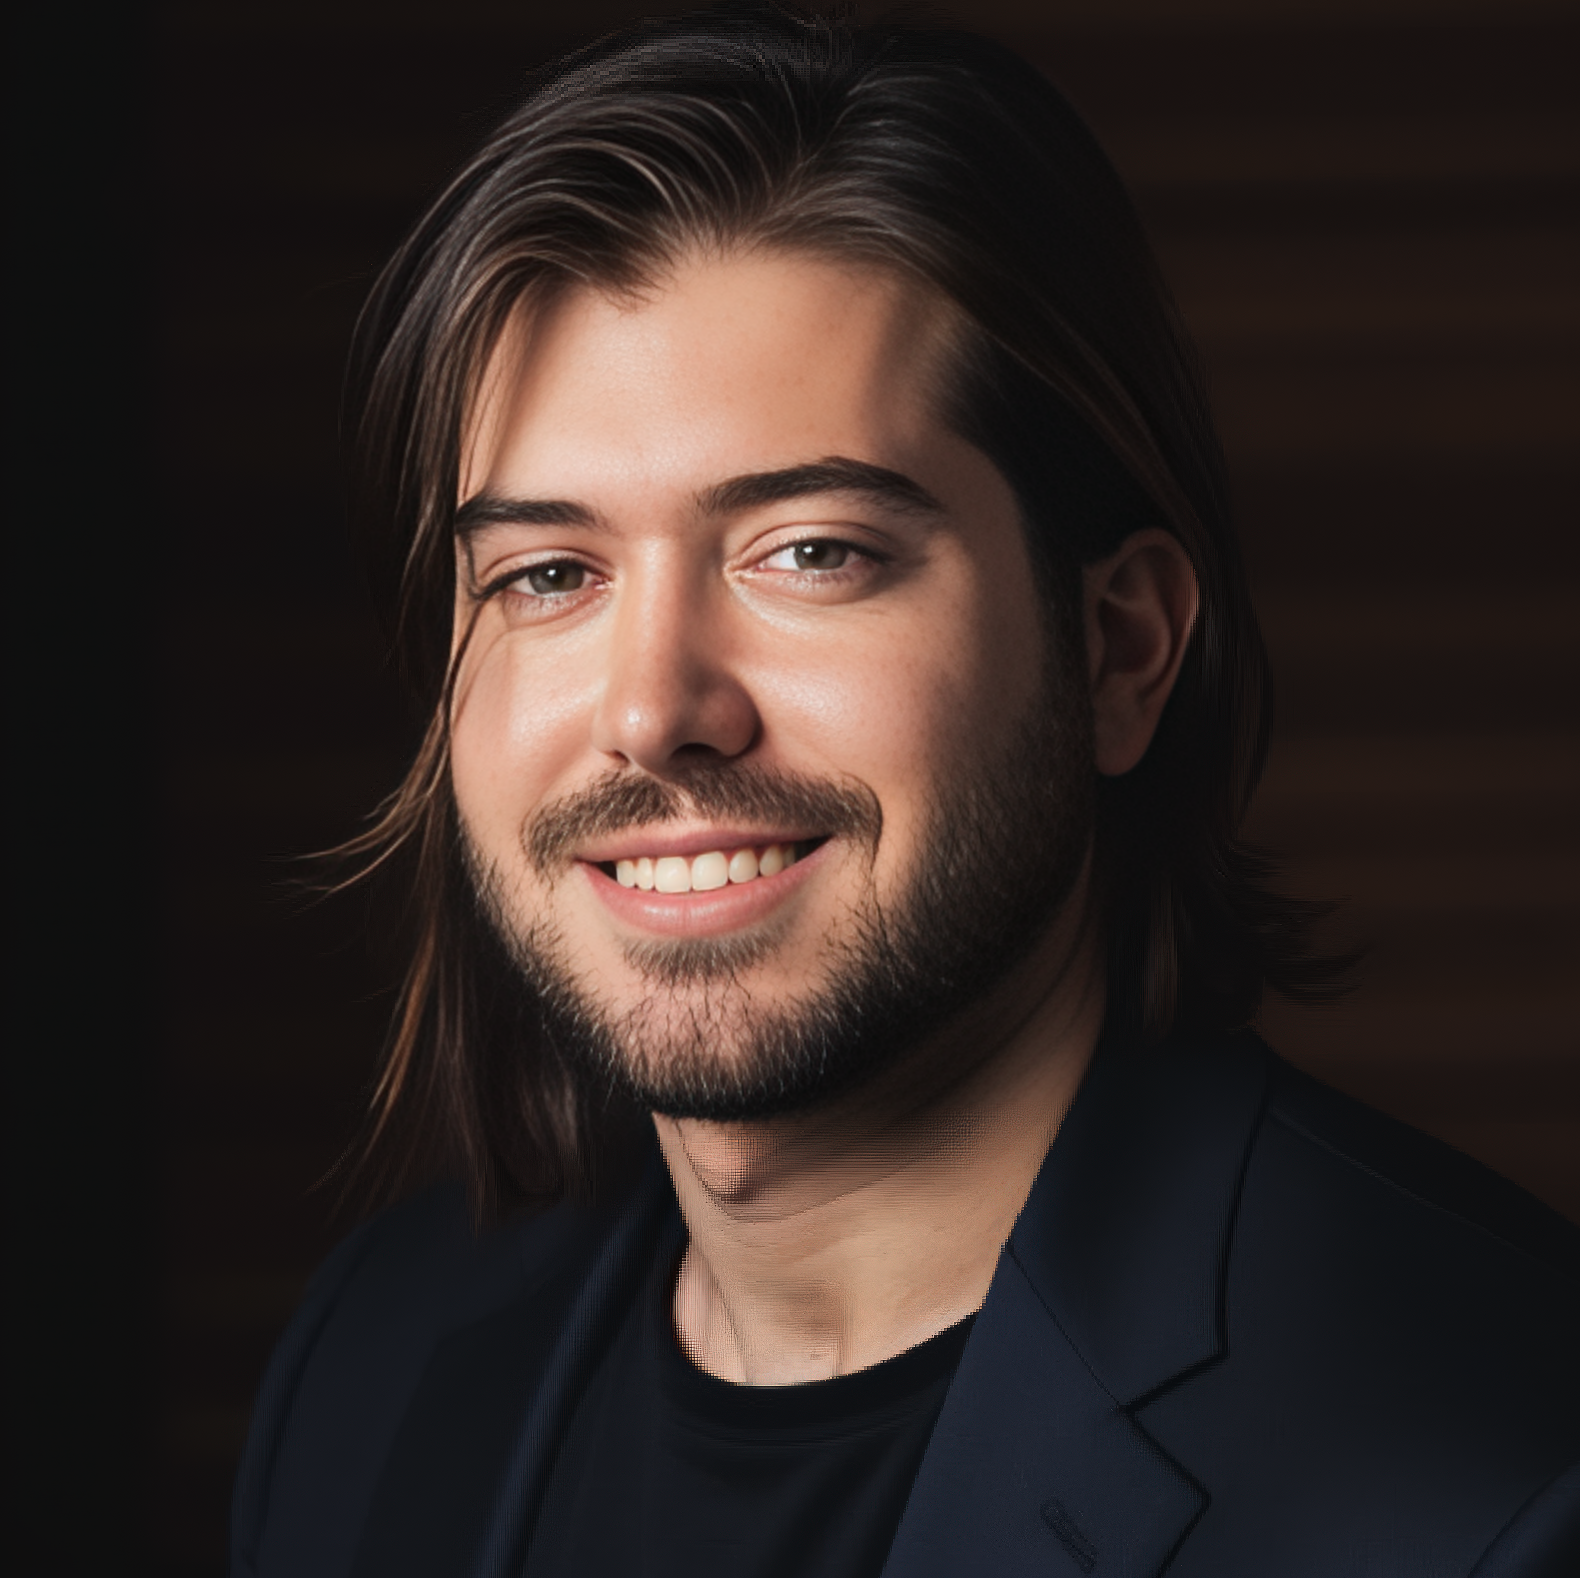
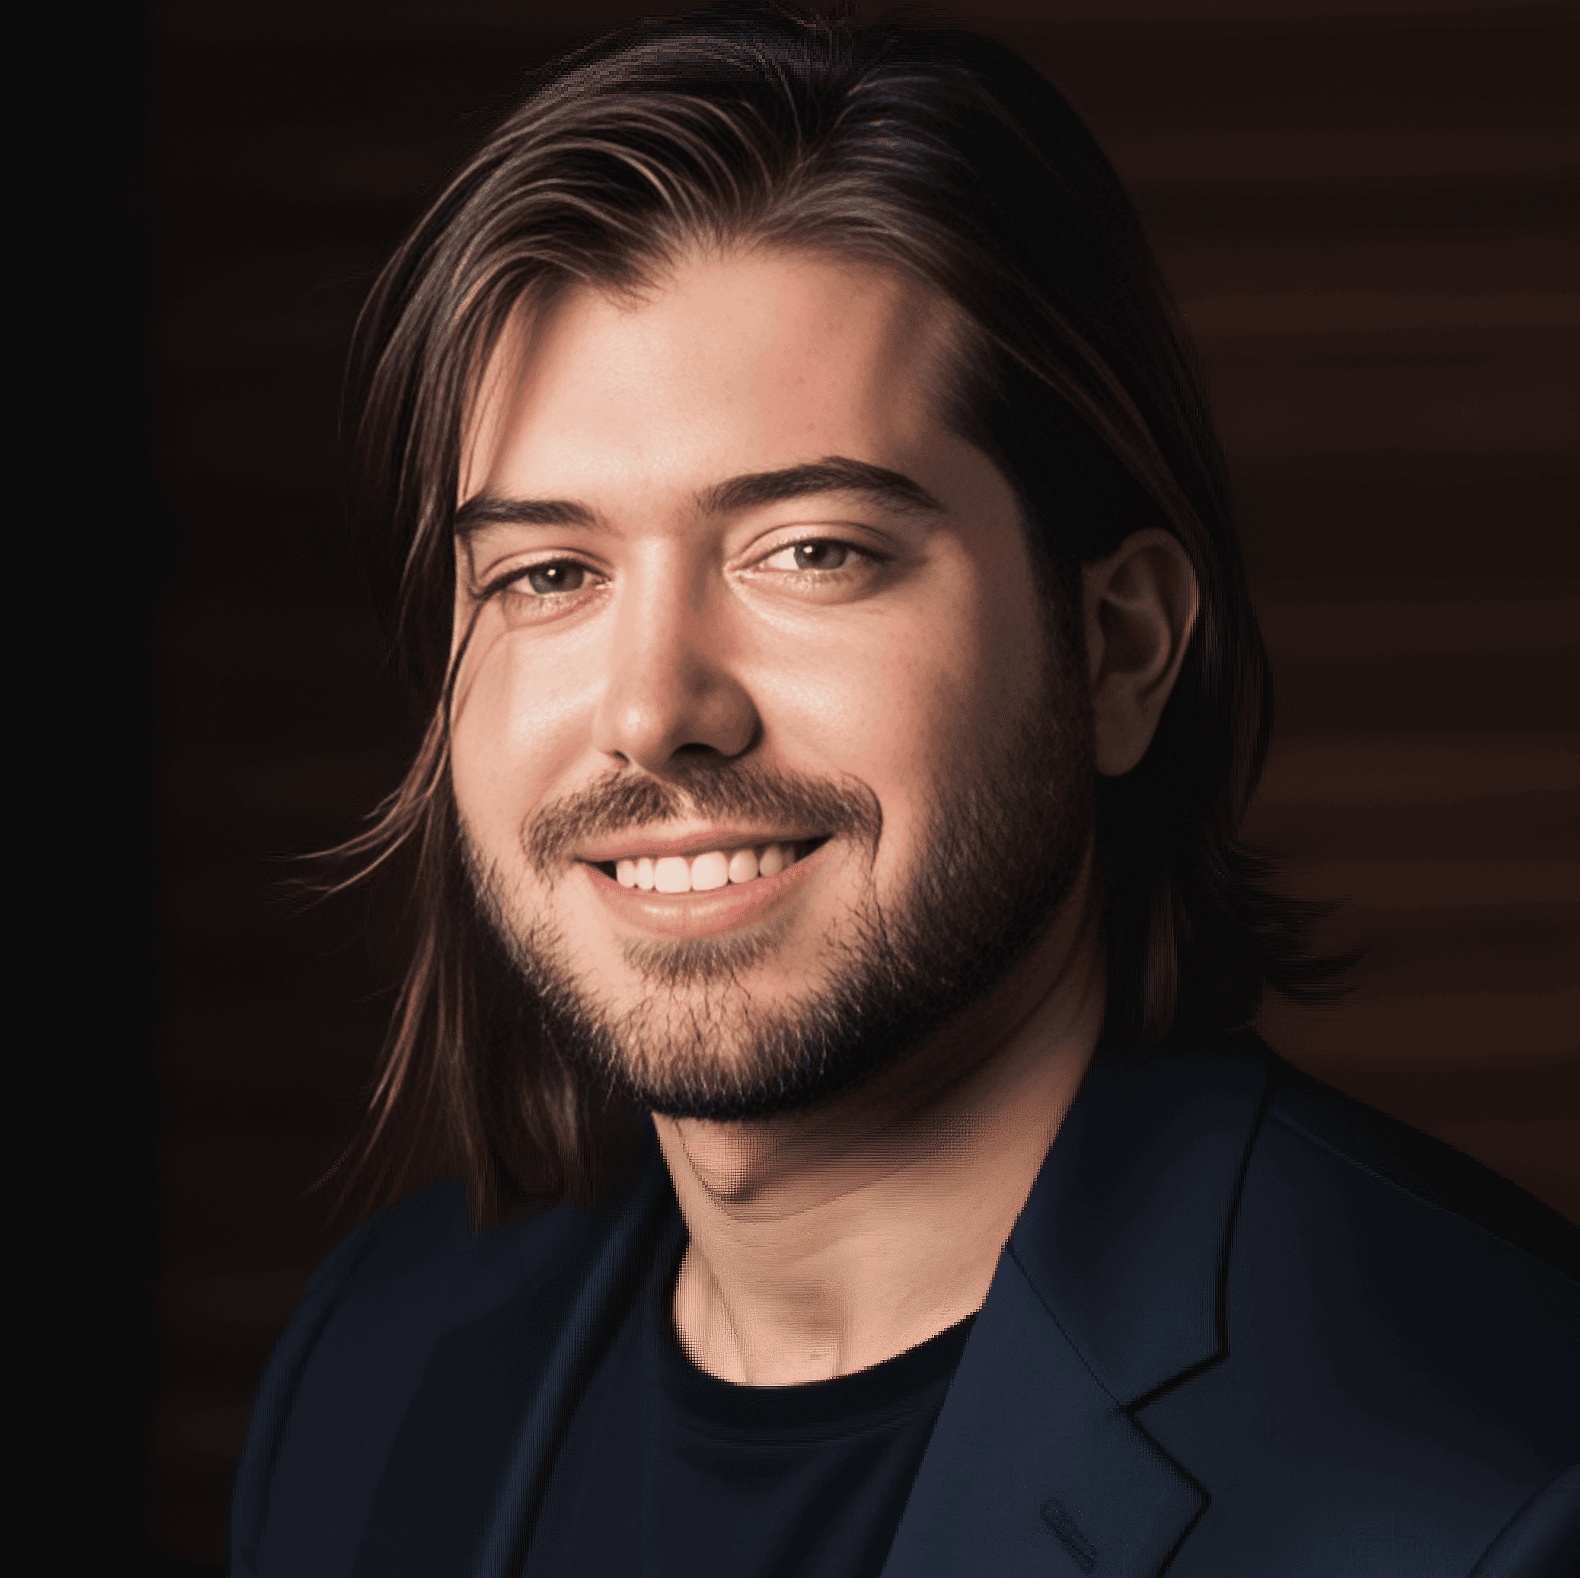
Auto-derive gallery from all projects; add Carrlot & Baird site images
- Gallery: new lib/gallery.ts derives every work-page image (hero +
  all case-study image blocks, de-duplicated, grouped by project); the
  /gallery page now renders all of it (11 -> 69 images) and stays in sync
  as case studies gain imagery
- Carnomaly: add the Carrlot dealer dashboard (inventory + AI agent)
- Baird Augustine: add the live website laptop mockup
- Refresh headshot, CV, and several project card assets

diff --git a/lib/gallery.ts b/lib/gallery.ts
@@ -1,0 +1,63 @@
+import type { Exploration } from "./explorations";
+import type { CaseStudyBlock, CaseStudyLayout, Project } from "./projects";
+import { projects } from "./projects";
+
+// Collect every image a project references — its hero card image, its
+// case-study hero, and every image block inside the case study — in reading
+// order, de-duplicated so a hero that reappears in the body only shows once.
+function collectProjectImages(project: Project): { src: string; label: string }[] {
+  const seen = new Set<string>();
+  const images: { src: string; label: string }[] = [];
+
+  const add = (src: string | undefined, label: string) => {
+    if (src && !seen.has(src)) {
+      seen.add(src);
+      images.push({ src, label });
+    }
+  };
+
+  add(project.image, project.title);
+  add(project.caseStudyImage, project.title);
+
+  const visitBlock = (block: CaseStudyBlock) => {
+    if (block.type === "image") {
+      add(block.src, block.label || project.title);
+    }
+  };
+
+  project.caseStudy?.blocks.forEach(visitBlock);
+  project.caseStudy?.layout?.forEach((section: CaseStudyLayout) => {
+    switch (section.type) {
+      case "split":
+        section.content.forEach(visitBlock);
+        section.media?.forEach(visitBlock);
+        break;
+      case "grid":
+        section.items.forEach(visitBlock);
+        break;
+      case "stack":
+        section.blocks.forEach(visitBlock);
+        break;
+      // "timeline" has no image blocks.
+    }
+  });
+
+  return images;
+}
+
+// Every work-page image, grouped by project in portfolio order. Drives the
+// full /gallery page so it always reflects all case-study imagery.
+export const galleryItems: Exploration[] = projects
+  .flatMap((project) =>
+    collectProjectImages(project).map((img) => ({ project, img }))
+  )
+  .map(({ project, img }, index) => ({
+    id: index + 1,
+    title: img.label,
+    category: project.category,
+    gradient: project.gradient,
+    span: "md:col-span-2 md:row-span-2",
+    // Unused for items that have an image; present to satisfy the type.
+    mockup: "dashboard",
+    image: img.src,
+  }));

diff --git a/lib/projects/data/carnomaly.ts b/lib/projects/data/carnomaly.ts
@@ -217,6 +217,15 @@ export const carnomaly: Project = {
           items: [
             {
               type: "image",
+              label: "Carrlot — the dealer's web inventory and auction desk, with the AI agent placing bids and pulling network inventory alongside",
+              src: "/projects/carnomaly-carrlot.png",
+              alt: "The Carnomaly Carrlot dealer dashboard: a list of vehicles with prices, reserves, and live auction timers, next to an AI agent panel searching inventory and listing active auctions",
+              aspect: "video",
+              rounded: "lg",
+              fit: "contain",
+            },
+            {
+              type: "image",
               label: "CarrDealer home — service opportunities at a glance: scans, offers, pending, and not requested",
               src: "/projects/carnomaly-carrdealer-hero.png",
               alt: "CarrDealer by Carnomaly mobile home screen showing service opportunity counts and an Add Service Vehicle button",

diff --git a/lib/projects/data/baird-augustine.ts b/lib/projects/data/baird-augustine.ts
@@ -66,6 +66,15 @@ export const bairdAugustine: Project = {
             },
             {
               type: "image",
+              label: "The live Baird Augustine site — the SF-skyline homepage, awarded by the State of California for investment-banking decorum",
+              src: "/projects/baird-augustine-website.png",
+              alt: "The Baird Augustine website open on a laptop: a deep-navy homepage over a San Francisco skyline with the serif \"Baird Augustine\" wordmark, a top navigation, and a State of California award seal",
+              aspect: "video",
+              rounded: "lg",
+              fit: "contain",
+            },
+            {
+              type: "image",
               label: "Baird Augustine — the brand and website I designed and built",
               src: "/projects/baird-augustine-hero.png",
               alt: "Baird Augustine homepage hero — \"Neo-Investment Bank\" with the Baird Augustine wordmark",

diff --git a/app/gallery/page.tsx b/app/gallery/page.tsx
@@ -1,7 +1,7 @@
 import type { Metadata } from "next";
 import Navbar from "@/components/Navbar";
 import GalleryGrid from "@/components/GalleryGrid";
-import { explorations } from "@/lib/explorations";
+import { galleryItems } from "@/lib/gallery";
 
 export const metadata: Metadata = {
   title: "Gallery",
@@ -25,7 +25,7 @@ export default function GalleryPage() {
           </h1>
         </div>
 
-        <GalleryGrid items={explorations} />
+        <GalleryGrid items={galleryItems} />
       </section>
     </main>
   );
